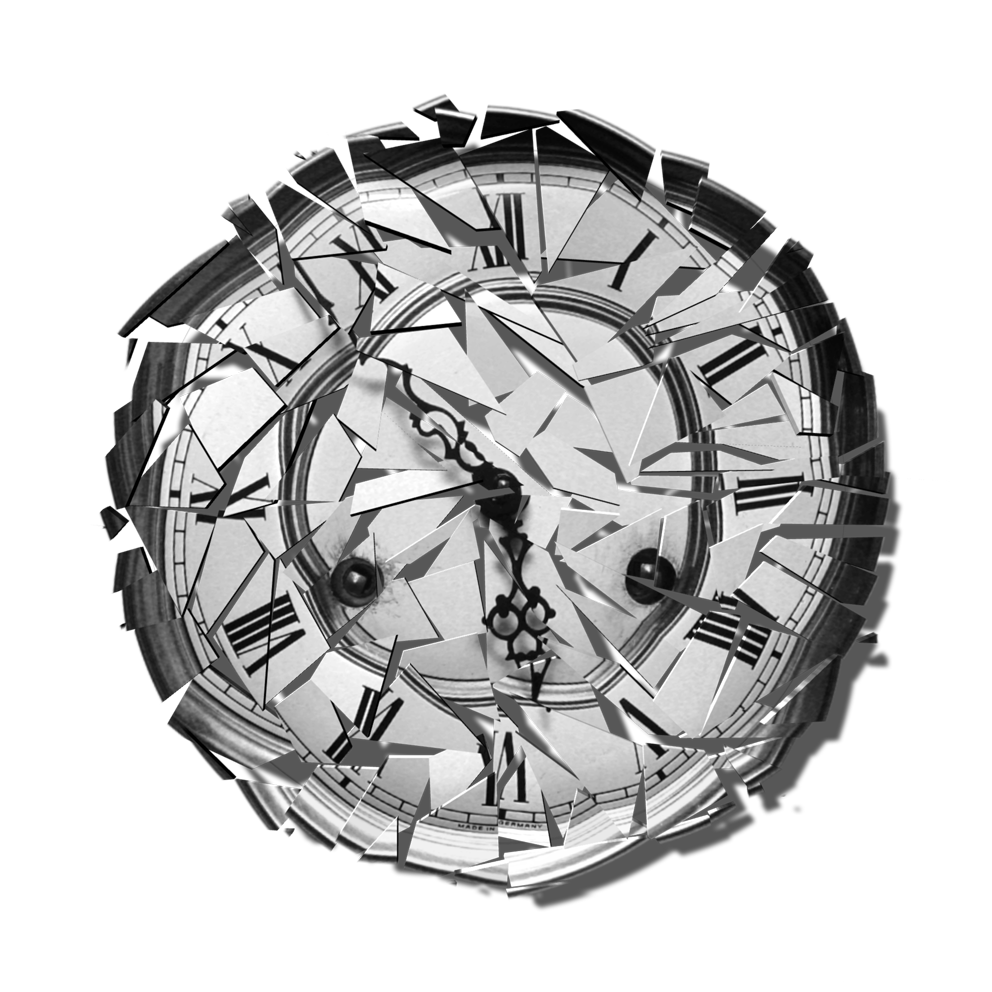
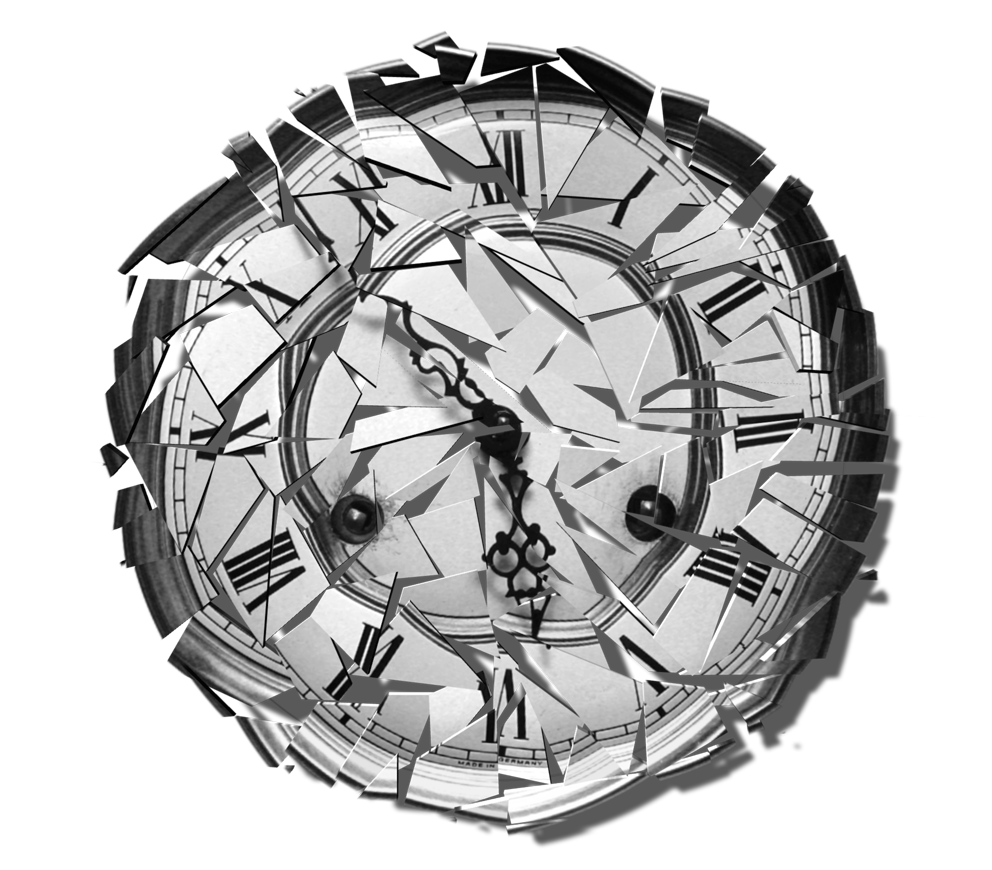
Changed splash page, deck builder introduction, and nav bar

diff --git a/app/assets/stylesheets/styles.css.scss b/app/assets/stylesheets/styles.css.scss
@@ -223,7 +223,7 @@ background-image: radial-gradient(ellipse farthest-corner at center, #080040 0%,
 }
 
 #splash_pic {
-  background-image: image-url("brokenclock.png");
+  /*background-image: image-url("brokenclock.png");*/
   background-repeat: no-repeat;
   background-size: 100%;
   background-position: top;
@@ -529,15 +529,16 @@ h2 {
 
 .db_introduction {
   text-align: center;
+  background-image: url("space2.gif");
+  padding: 10px;
+  width: 40%;
+  border-radius: 10;
 }
 
 .new_deck {
   text-align: center;
 }
 
-.db_introduction {
-  text-align: center;
-}
 
 .deck_builder {
   text-align: center;
